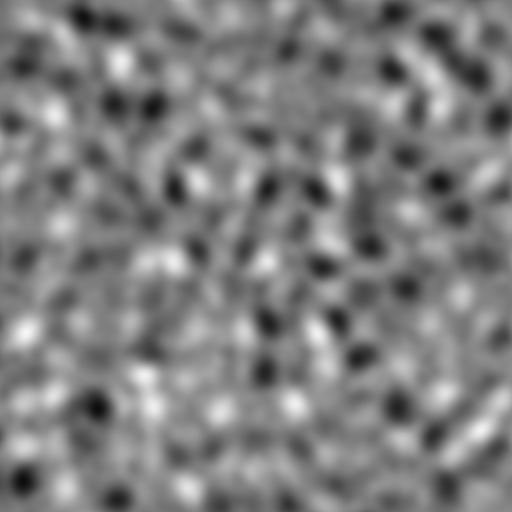
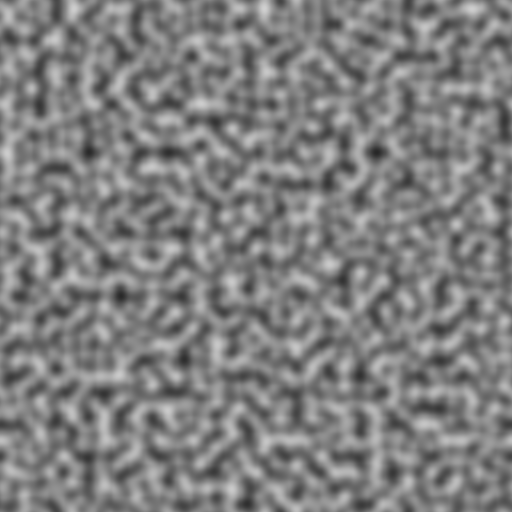
improve noise and unlit

diff --git a/src/toonwater_material.rs b/src/toonwater_material.rs
@@ -32,6 +32,7 @@ pub fn build_toon_water_material(
 			            alpha_mode: AlphaMode::Blend,
 			            double_sided: true,
 			            cull_mode: None, 
+                        unlit: true ,
 
 			            ..Default::default()
 			        },
